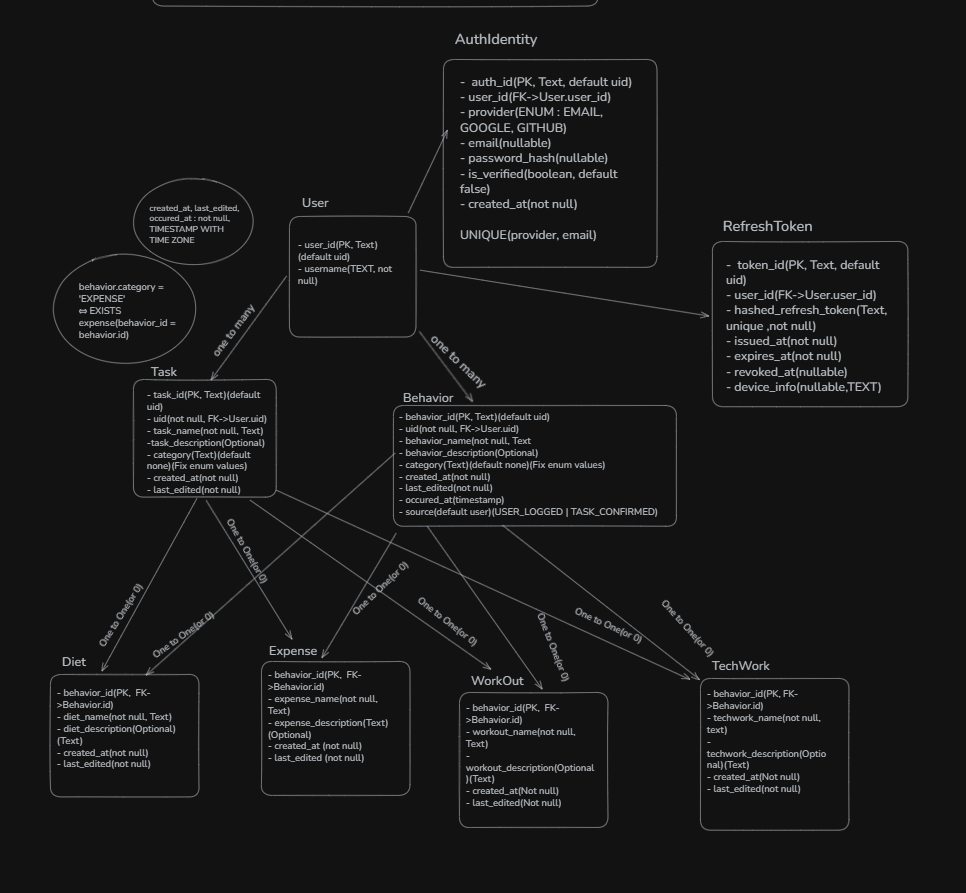
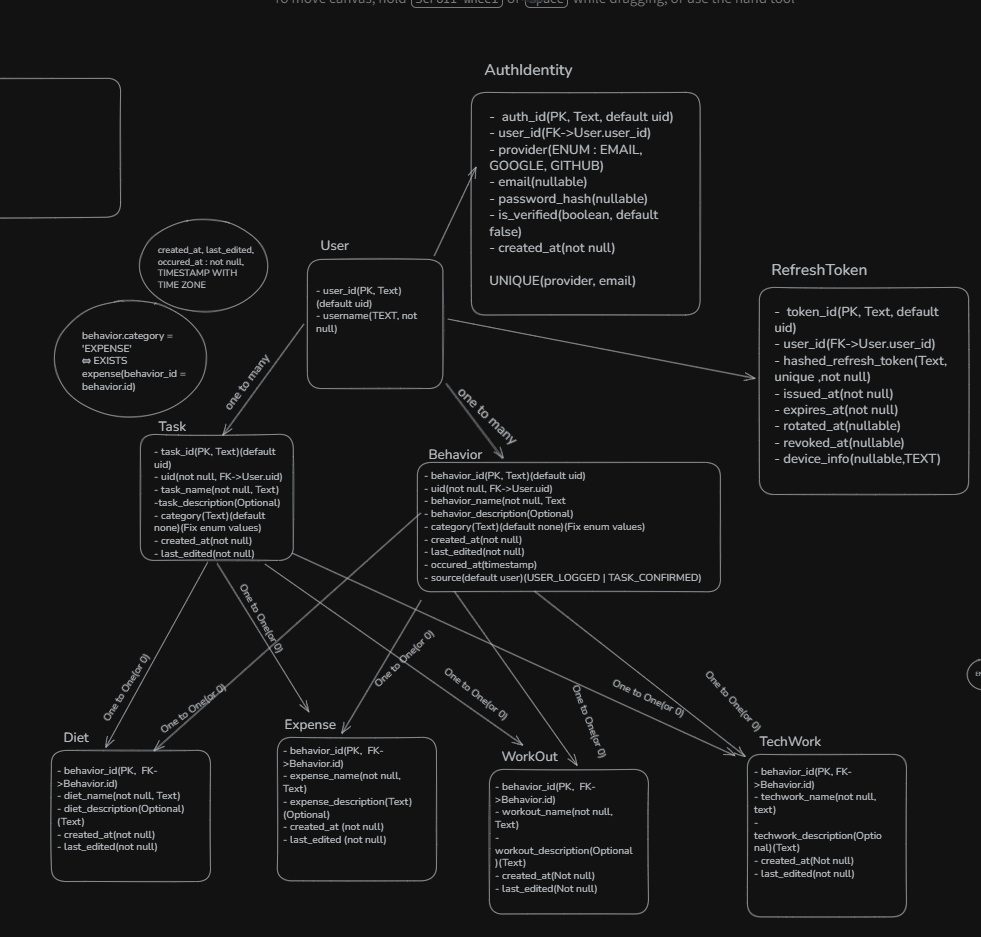
> Add new field: rotated_at(nullable) in RefreshToken table > Complete auth api design(markdown file): >  - write down whole signin, sigout, signout-all flow >  - complete flow for refresh route with rotate token logic >  - Seperate Verify and Signin route

diff --git a/api_design/auth/auth.api.md b/api_design/auth/auth.api.md
@@ -2,40 +2,90 @@
 ## POST /api/v1/auth/signup/init
 - Intent: create account via email OTP and authenticate user
 - Input: email, username ,provider, password(Optional), device_info(Optional)
-- Output: access_token, refresh_token, send OTP message
+- Output: 
+    - Send OTP message(provider:EMAIL)
+    - OR access_token + refresh_token(3rd party provider only)
 - Errors: email exists, otp invalid
 ### Server Logic
 1. Verify Credentials
 2. Look up for provider
-    - if provider is EMAIL -> Send OTP message to client's email -> client verify OTP on /auth/verify route
-3. Provider is third party (i.e. Google, Github) -> generate access + refresh tokens
+    - if provider = EMAIL -> Send OTP message to client's email -> client verify OTP on /auth/verify route
+    - Provider is 3rd party(i.e. Google, Github) -> authentication succesful
+3. generate access + refresh tokens
 4. Upadate db with email, provider, is_verified:true, hashed_refresh_tokens, etc .
 5. Store access + refresh token in headers or cookie.
 
 # signin
 ## POST /api/v1/auth/signin/init
+- Intent: authenticate the user through credentials 
+- Input: email, provider ,password(Optional)
+- Output: 
+    - Send OTP message(provider:EMAIL)
+    - OR access_token + refresh_token(3rd party provider only)
+- Error: email does not exists, otp invalid
+### Server Logic
+1. Verify credentials
+2. Look up for provider
+    - If provider = Email -> send OTP to client't email -> client verify OTP on /auth/verify route
+    - Provider is 3rd party -> authentication succesfull
+4. Generate access token and refresh token 
+5. Store it in users header or cookie
 
 
-
+# Verify
 ## POST /api/v1/auth/verify
 - Intent: verify the email if provider is EMAIL, create user and issue token
 - input: provider, email, OTP
 - Output: access_token, refresh_token
 - Error: Invalid or Expired OTP
 ### Server Logic
-1. Verify identity (OTP or provider)
-2. Look up AuthIdentity
+1. If provider != EMAIl -> reject
+2. If OTP Invalid or expired -> reject
+2. Look up for email in db
    - if exists → signin path
    - if not exists → signup path (create User + identity)
-3. Mark identity as verified
+3. Mark identity as verified(is_verified: true)
 4. Issue access + refresh tokens
 5. Store access + refresh token in headers or cookie.
 
-## POST /api/v1/auth/signin/verify
 
 # refresh token
 ## POST /api/v1/auth/refresh
+- Intent: Generate the access token and rotate the refresh token
+- Input: refresh_token(Through headers or cookie)
+- Output: access_token, new_refresh_token
+- Error: token not found, token is expired, token is revoked
+### Server Logic
+1. Extract refresh token and hash it
+2. find token in DB
+    - if not found -> reject
+    - if revoked_at != NULL -> reject
+    - if rotated_at != NULL -> SECURITY ALERT(resue detected)
+    - if expired_at < now> -> reject
+3. Rotate:
+    - set rotated_at = now() in old token
+    - Insert new refresh token row
+4. issue new_access_token
+5. store access_token and new_refresh_token in client's header/cookie and return it.
 
 # signout
 ## POST /api/v1/auth/signout
+- Intent: signout current session of the user
+- Input: refresh_token (from cookie/header)
+- Output: success message
+- Error: token does not exists
+### Server Logic
+1. Extract refresh_token
+2. If refresh_token is not available -> send error message
+3. set revoke_at : now() (through token) in database
+4. return success message
 ## POST /api/v1/auth/signout-all
+- Intent: signout all session of the user
+- Input:  refresh_token (from cookie/header)
+- Output: success message
+- Error: token does not exists
+### Server Logic
+1. Extract refresh_token
+2. If refresh_token is not available -> send error message
+3. set revoke_at : now() (through token) for all the token in database
+4. return success message
